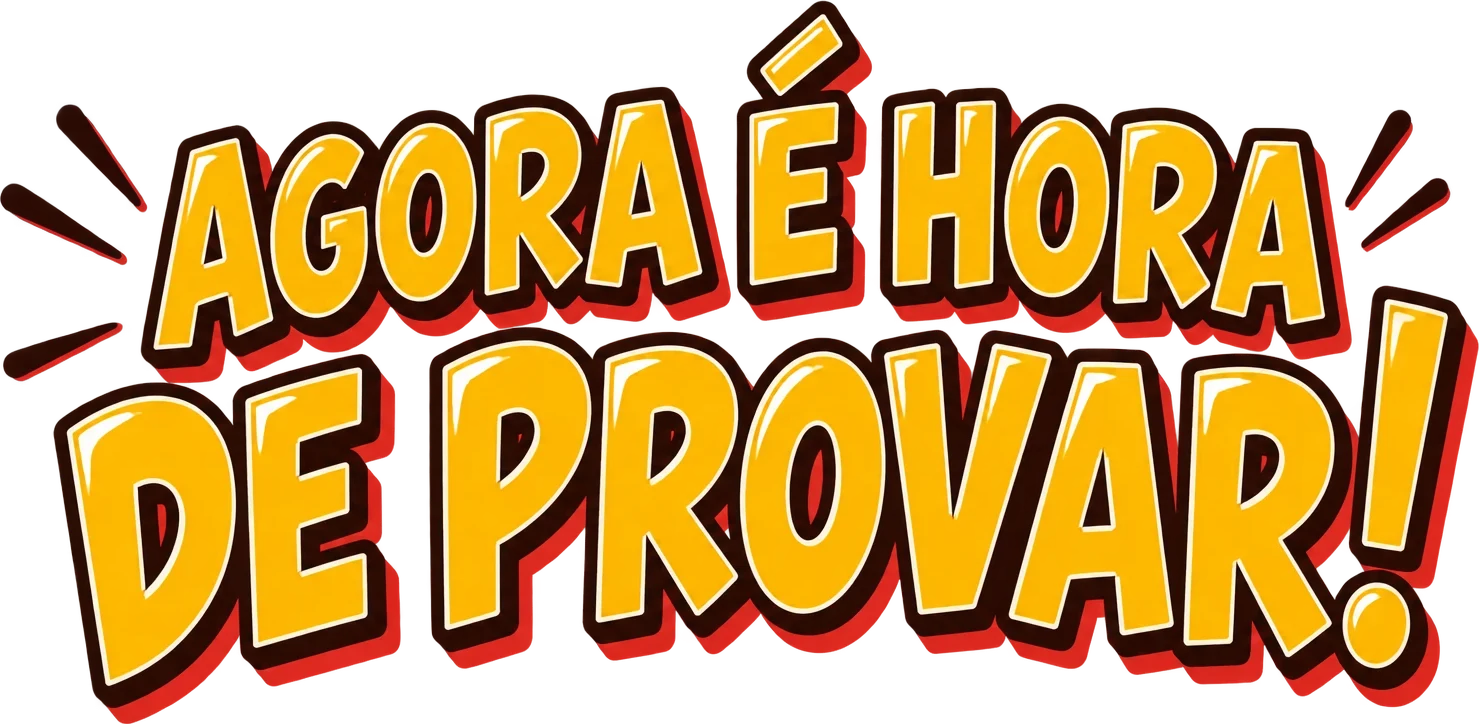
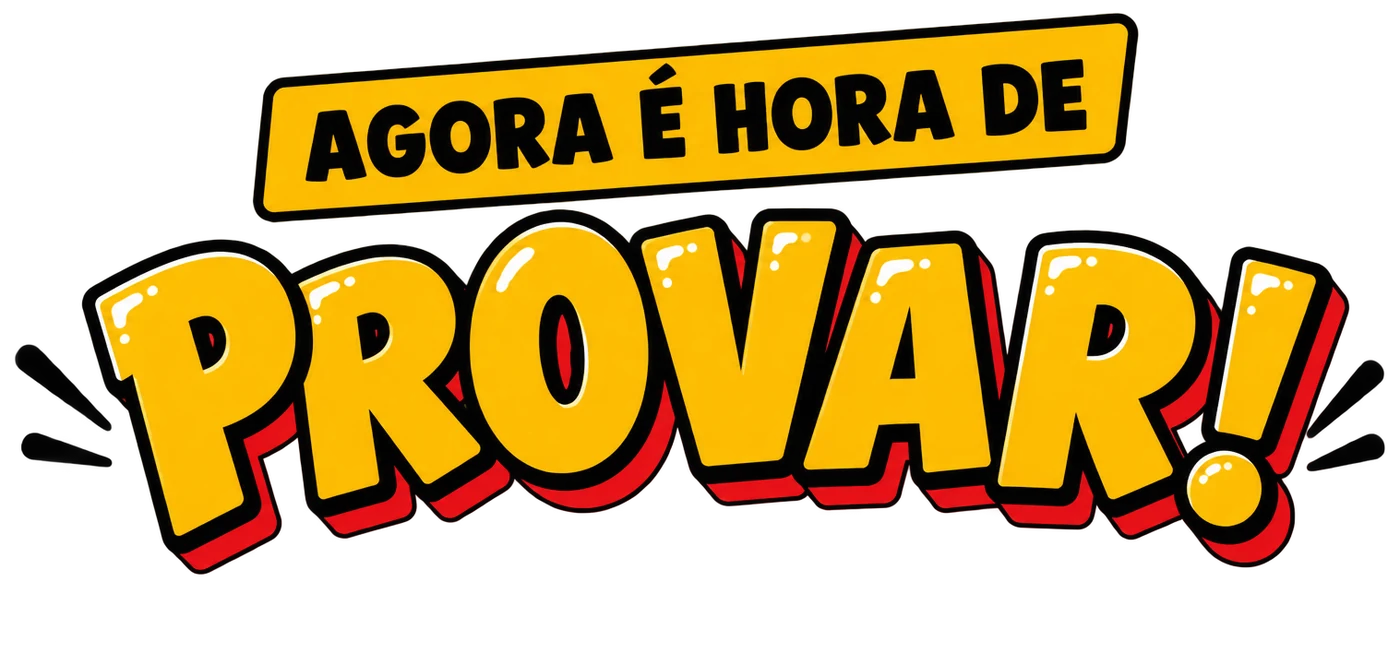
feat(edicao): letreiros no traço do título aprovado (TÁ CHEGANDO!)
Os dois letreiros desenhados (elenco, provar) são refeitos no traço que o
MANUAL-CARTOON 1.0 fixou para título: bolha amarela, contorno preto e sombra
vermelha. Entram três novos: Onde ficam (Entrada), Minha rota (topo da
página) e Avalie sua experiência (Entrada e topo do Avaliar). As variantes
480/960 do desenho antigo saem. O nome do Mapa segue em aberto e fica em CSS.

diff --git a/src/data/imageLibrary.js b/src/data/imageLibrary.js
@@ -397,16 +397,20 @@ export function fotoProximaEdicao(chave) {
   return PROXIMA_EDICAO[chave] || null
 }
 
-/* Letreiros desenhados da edição 2026.2 (manual v03, assets/ig-titulo-*.png),
-   convertidos para WebP sem recorte (fundo transparente). Título fixo de
-   seção: <Letreiro imagem={letreiroEdicao('elenco')} texto="…" /> — o texto
-   real vai no HTML. Letreiro novo entra aqui, nunca montado na página. */
+/* Letreiros desenhados da edição 2026.2 no traço do título aprovado (MANUAL-CARTOON 1.0: "TÁ CHEGANDO!" —
+   bolha amarela, contorno preto, sombra vermelha), gerados em 31/10 (05_SITE/07_LETREIROS_v02), recortados ao
+   conteúdo e convertidos para WebP, fundo transparente. Título fixo de seção:
+   <Letreiro imagem={letreiroEdicao('elenco')} texto="…" /> — o texto real vai no HTML.
+   Letreiro novo entra aqui, nunca montado na página. */
 const LETREIROS_EDICAO = {
-  elenco: { src: '/images/marcas-edicoes/2026.2/letreiros/nosso-elenco.webp', largura: 1462, altura: 736 },
-  provar: { src: '/images/marcas-edicoes/2026.2/letreiros/hora-de-provar.webp', largura: 1479, altura: 724 },
+  elenco: { src: '/images/marcas-edicoes/2026.2/letreiros/nosso-elenco.webp', largura: 1400, altura: 575 },
+  provar: { src: '/images/marcas-edicoes/2026.2/letreiros/hora-de-provar.webp', largura: 1400, altura: 653 },
+  onde: { src: '/images/marcas-edicoes/2026.2/letreiros/onde-ficam.webp', largura: 1400, altura: 627 },
+  rota: { src: '/images/marcas-edicoes/2026.2/letreiros/minha-rota.webp', largura: 1400, altura: 624 },
+  avalie: { src: '/images/marcas-edicoes/2026.2/letreiros/avalie-sua-experiencia.webp', largura: 1400, altura: 654 },
 }
 
-/** Letreiro desenhado da edição (`elenco` · `provar`), ou `null`. */
+/** Letreiro desenhado da edição (`elenco` · `provar` · `onde` · `rota` · `avalie`), ou `null`. */
 export function letreiroEdicao(chave) {
   return LETREIROS_EDICAO[chave] || null
 }

diff --git a/src/edicao/cartoon/paginas/MinhaRota.jsx b/src/edicao/cartoon/paginas/MinhaRota.jsx
@@ -11,6 +11,7 @@ import * as M from '../../dados/modelo.js'
 import { resolverParadas, linksDeRota, idsDaBusca, progresso } from '../../rota/minhaRota.js'
 import { Link, AvisoDesatualizado, AvisoDemo, AvisoRetrato } from '../../componentes/base.jsx'
 import { TopoCanal } from '../../componentes/sistema/TopoCanal.jsx'
+import { letreiroEdicao } from '../../../data/imageLibrary'
 import { Letreiro } from '../../componentes/sistema/Letreiro.jsx'
 import { IconeCartoon } from '../../componentes/sistema/IconeCartoon.jsx'
 import { Placa, Botao } from '../../componentes/sistema/pecas.jsx'
@@ -50,7 +51,7 @@ export function MinhaRota ({ navigate, dados }) {
   )
   const topo = (texto, comProgresso = false) => (
     <TopoCanal canal="rota" className="ct-rota-topo" aria-labelledby="rota-titulo">
-      <Letreiro nivel={1} id="rota-titulo" texto={T.titulo} cor="amarelo" />
+      <Letreiro nivel={1} id="rota-titulo" texto={T.titulo} imagem={letreiroEdicao('rota')} />
       <p className="ct-lead">{texto}</p>
       {comProgresso && prog.total > 0 && (
         <div className="ct-progresso">

diff --git a/src/edicao/cartoon/paginas/Entrada.jsx b/src/edicao/cartoon/paginas/Entrada.jsx
@@ -92,7 +92,7 @@ export function Entrada ({ navigate, dados, carregando, erro, tentar }) {
       {!encerrada && bairros.length > 0 && (
         <section className="ct-onde" aria-labelledby="ct-onde">
           <div className="ct-bloco">
-            <Letreiro id="ct-onde" texto={T.ondeTitulo} />
+            <Letreiro id="ct-onde" texto={T.ondeTitulo} imagem={letreiroEdicao('onde')} />
             <p className="ct-lead">{T.ondeLead}</p>
             <ul className="ct-bairros">
               {bairros.map(({ bairro, casas }) => (
@@ -110,7 +110,7 @@ export function Entrada ({ navigate, dados, carregando, erro, tentar }) {
       )}
 
       <section className="ct-bloco ct-entrada__avalie" aria-labelledby="ct-avalie">
-        <Letreiro id="ct-avalie" texto={T.avalieTitulo} />
+        <Letreiro id="ct-avalie" texto={T.avalieTitulo} imagem={letreiroEdicao('avalie')} />
         <p className="ct-lead">{textoAvalie}</p>
         <div className="ct-acoes">
           {!encerrada && <Botao href={`${C}/avaliar`} navigate={navigate}>{aberta ? T.avaliar : T.comoAvaliar}</Botao>}

diff --git a/src/edicao/cartoon/paginas/Avaliar.jsx b/src/edicao/cartoon/paginas/Avaliar.jsx
@@ -18,6 +18,7 @@ import { criarEnvioProtegido } from '../../../lib/enviarFormulario'
 import { Link, Carregando, Falha } from '../../componentes/base.jsx'
 import { TopoCanal } from '../../componentes/sistema/TopoCanal.jsx'
 import { Olhinhos } from '../../componentes/sistema/Olhinhos.jsx'
+import { letreiroEdicao } from '../../../data/imageLibrary'
 import { Letreiro } from '../../componentes/sistema/Letreiro.jsx'
 import { IconeCartoon } from '../../componentes/sistema/IconeCartoon.jsx'
 import { Etiqueta, Botao, Passos } from '../../componentes/sistema/pecas.jsx'
@@ -99,7 +100,7 @@ export function Avaliar ({ navigate, dados }) {
   const C = EDICAO.caminho
   const topo = (
     <TopoCanal canal="servico" className="ct-servico-topo" aria-labelledby="av-titulo">
-      <Letreiro nivel={1} id="av-titulo" texto={T.titulo} />
+      <Letreiro nivel={1} id="av-titulo" texto={T.titulo} imagem={letreiroEdicao('avalie')} />
       <p className="ct-lead">{T.lead}</p>
     </TopoCanal>
   )

diff --git a/src/data/imageVariants.js b/src/data/imageVariants.js
@@ -658,8 +658,6 @@ export const VARIANTES = new Map([
   ['/images/marcas-edicoes/2026.2/elementos/temas/boldfood-confeitaria-inclusiva/cenario.webp', { larguras: [480, 960], original: 1536 }],
   ['/images/marcas-edicoes/2026.2/elementos/temas/casa-alice-doceria/cenario.webp', { larguras: [480, 960], original: 1536 }],
   ['/images/marcas-edicoes/2026.2/fundo-heroi.webp', { larguras: [480, 960], original: 2400 }],
-  ['/images/marcas-edicoes/2026.2/letreiros/hora-de-provar.webp', { larguras: [480, 960], original: 1479 }],
-  ['/images/marcas-edicoes/2026.2/letreiros/nosso-elenco.webp', { larguras: [480, 960], original: 1462 }],
   ['/images/marcas-edicoes/2026.2/selo/selo-cartoon.webp', { larguras: [480, 960], original: 1921 }],
   ['/images/marcas-edicoes/2026.2/tema.webp', { larguras: [480, 960], original: 1400 }],
   ['/images/marcas-edicoes/2026.2/trofeu/trofeu-dourado.webp', { larguras: [480], original: 781 }],
